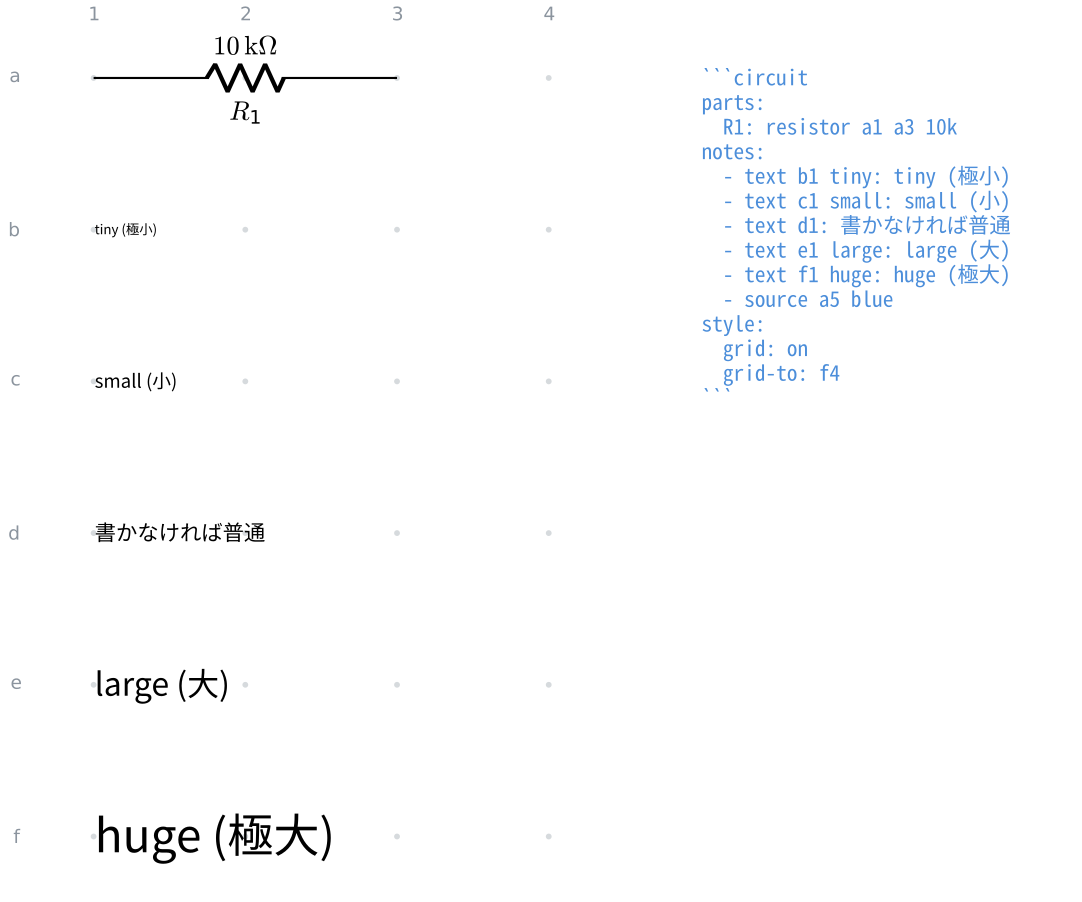
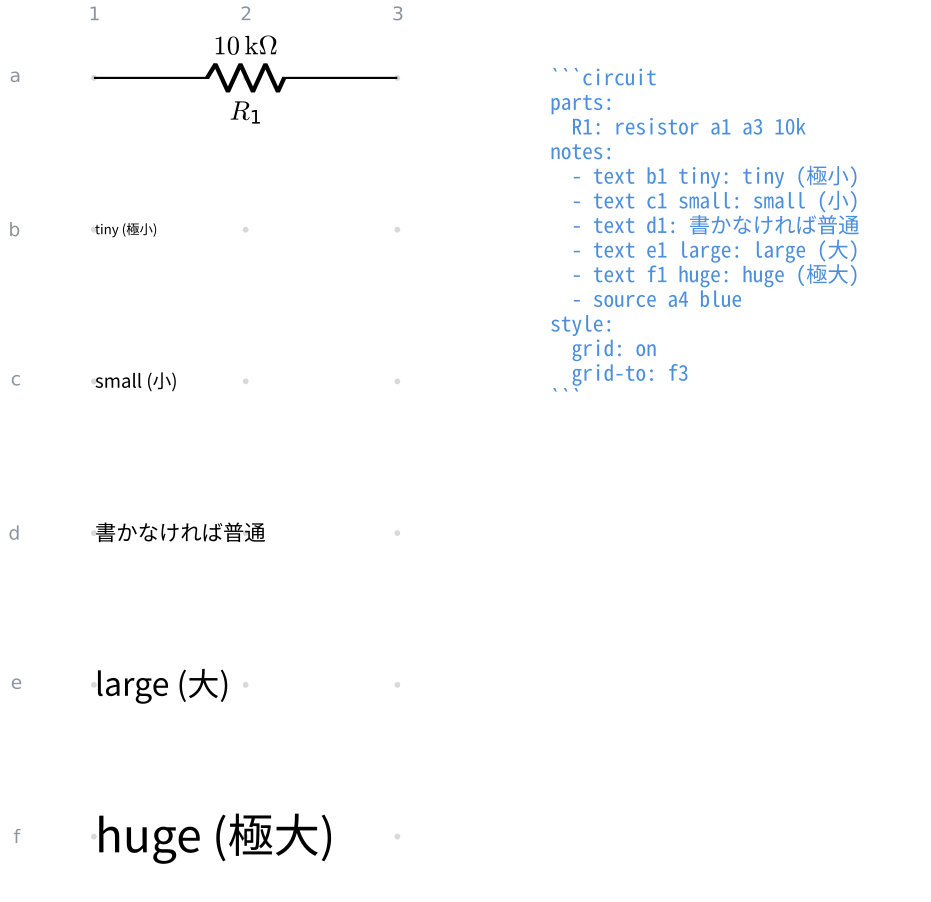
docs: 注釈の例の書き出しを回路の隣へ寄せ、説明の字を大きくする
指し棒と枠の例 (12-notes-6):

- 書き出しを a9 → **a7** に寄せ、large にした
- 枠の説明「box a1 c3 blue」も large に
- あわせて **grid-to を c8 → c6** に詰めた。書き出しを a7 に寄せると
  グリッドの 7・8 列目が字の裏に出て、点が字に混ざる。グリッドは
  指し棒の起点 (c6) まであれば足りるので、そこで止める

字の見た目の例 (12-notes-4 / 12-notes-5):

- **grid-to の列だけが回路より右へ伸びていた**ぶん、書き出しが押し出されていた。
  回路の右端に合わせて詰め (f4 → f3、i6 → i5)、書き出しも 1 列寄せた
  (a5 → a4、a7 → a6)。行のほう (f / i) は字を並べるのに要るのでそのまま

「arrow c6 R1」の赤い字は normal のままにした。large にすると 6 列目から
7 列目まで伸びて、a7 に置いた書き出しと噛む。

🤖 Generated with [Claude Code](https://claude.com/claude-code)

diff --git a/examples/out/12-notes-6.tex b/examples/out/12-notes-6.tex
@@ -9,15 +9,13 @@
 \begin{circuitikz}[american, line width=0.8pt]
 \ctikzset{bipoles/length=1.2cm}
 \ctikzset{grounds/scale=1.36}
-\foreach \x in {0,2,4,6,8,10,12,14} {\foreach \y in {0,-2,-4} {\fill[gray, opacity=0.35] (\x,\y) circle (1.1pt);}}
+\foreach \x in {0,2,4,6,8,10} {\foreach \y in {0,-2,-4} {\fill[gray, opacity=0.35] (\x,\y) circle (1.1pt);}}
 \node[gray, font=\scriptsize] at (0,0.84) {1};
 \node[gray, font=\scriptsize] at (2,0.84) {2};
 \node[gray, font=\scriptsize] at (4,0.84) {3};
 \node[gray, font=\scriptsize] at (6,0.84) {4};
 \node[gray, font=\scriptsize] at (8,0.84) {5};
 \node[gray, font=\scriptsize] at (10,0.84) {6};
-\node[gray, font=\scriptsize] at (12,0.84) {7};
-\node[gray, font=\scriptsize] at (14,0.84) {8};
 \node[gray, font=\scriptsize, anchor=east] at (-0.84,0) {a};
 \node[gray, font=\scriptsize, anchor=east] at (-0.84,-2) {b};
 \node[gray, font=\scriptsize, anchor=east] at (-0.84,-4) {c};
@@ -33,30 +31,30 @@
 \draw (a3) -- (a4); % line 8
 \node[circ] at (a3) {};
 \draw[circuitnoteblue, dashed, rounded corners=3pt] (-0.7,-4.7) rectangle (4.7,0.7); % line 10
-\path (0.815,-6.395) rectangle (3.185,-5.605); % line 11
-\node[anchor=west, inner sep=0, circuitnotemark, font=\footnotesize] at (2,-6) {X}; % line 11
+\path (0.222,-6.593) rectangle (3.778,-5.407); % line 11
+\node[anchor=west, inner sep=0, circuitnotemark, font=\large] at (2,-6) {X}; % line 11
 \draw[circuitnotered, -{Stealth[length=2.2mm]}] (10,-4) -- (2.805,-0.402); % line 12
 \path (10,-4.395) rectangle (11.863,-3.605); % line 13
 \node[anchor=west, inner sep=0, circuitnotemark, font=\footnotesize] at (10,-4) {X}; % line 13
-\path (16,-6.237) rectangle (22.824,0.395); % line 14
-\node[anchor=west, inner sep=0, circuitnotemark, font=\footnotesize] at (16,0) {X}; % line 14
-\node[anchor=west, inner sep=0, circuitnotemark, font=\footnotesize] at (16,-0.325) {X}; % line 14
-\node[anchor=west, inner sep=0, circuitnotemark, font=\footnotesize] at (16,-0.649) {X}; % line 14
-\node[anchor=west, inner sep=0, circuitnotemark, font=\footnotesize] at (16,-0.974) {X}; % line 14
-\node[anchor=west, inner sep=0, circuitnotemark, font=\footnotesize] at (16,-1.298) {X}; % line 14
-\node[anchor=west, inner sep=0, circuitnotemark, font=\footnotesize] at (16,-1.623) {X}; % line 14
-\node[anchor=west, inner sep=0, circuitnotemark, font=\footnotesize] at (16,-1.947) {X}; % line 14
-\node[anchor=west, inner sep=0, circuitnotemark, font=\footnotesize] at (16,-2.272) {X}; % line 14
-\node[anchor=west, inner sep=0, circuitnotemark, font=\footnotesize] at (16,-2.596) {X}; % line 14
-\node[anchor=west, inner sep=0, circuitnotemark, font=\footnotesize] at (16,-2.921) {X}; % line 14
-\node[anchor=west, inner sep=0, circuitnotemark, font=\footnotesize] at (16,-3.246) {X}; % line 14
-\node[anchor=west, inner sep=0, circuitnotemark, font=\footnotesize] at (16,-3.57) {X}; % line 14
-\node[anchor=west, inner sep=0, circuitnotemark, font=\footnotesize] at (16,-3.895) {X}; % line 14
-\node[anchor=west, inner sep=0, circuitnotemark, font=\footnotesize] at (16,-4.219) {X}; % line 14
-\node[anchor=west, inner sep=0, circuitnotemark, font=\footnotesize] at (16,-4.544) {X}; % line 14
-\node[anchor=west, inner sep=0, circuitnotemark, font=\footnotesize] at (16,-4.868) {X}; % line 14
-\node[anchor=west, inner sep=0, circuitnotemark, font=\footnotesize] at (16,-5.193) {X}; % line 14
-\node[anchor=west, inner sep=0, circuitnotemark, font=\footnotesize] at (16,-5.517) {X}; % line 14
-\node[anchor=west, inner sep=0, circuitnotemark, font=\footnotesize] at (16,-5.842) {X}; % line 14
+\path (12,-9.356) rectangle (23.811,0.593); % line 14
+\node[anchor=west, inner sep=0, circuitnotemark, font=\large] at (12,0) {X}; % line 14
+\node[anchor=west, inner sep=0, circuitnotemark, font=\large] at (12,-0.487) {X}; % line 14
+\node[anchor=west, inner sep=0, circuitnotemark, font=\large] at (12,-0.974) {X}; % line 14
+\node[anchor=west, inner sep=0, circuitnotemark, font=\large] at (12,-1.46) {X}; % line 14
+\node[anchor=west, inner sep=0, circuitnotemark, font=\large] at (12,-1.947) {X}; % line 14
+\node[anchor=west, inner sep=0, circuitnotemark, font=\large] at (12,-2.434) {X}; % line 14
+\node[anchor=west, inner sep=0, circuitnotemark, font=\large] at (12,-2.921) {X}; % line 14
+\node[anchor=west, inner sep=0, circuitnotemark, font=\large] at (12,-3.408) {X}; % line 14
+\node[anchor=west, inner sep=0, circuitnotemark, font=\large] at (12,-3.895) {X}; % line 14
+\node[anchor=west, inner sep=0, circuitnotemark, font=\large] at (12,-4.381) {X}; % line 14
+\node[anchor=west, inner sep=0, circuitnotemark, font=\large] at (12,-4.868) {X}; % line 14
+\node[anchor=west, inner sep=0, circuitnotemark, font=\large] at (12,-5.355) {X}; % line 14
+\node[anchor=west, inner sep=0, circuitnotemark, font=\large] at (12,-5.842) {X}; % line 14
+\node[anchor=west, inner sep=0, circuitnotemark, font=\large] at (12,-6.329) {X}; % line 14
+\node[anchor=west, inner sep=0, circuitnotemark, font=\large] at (12,-6.816) {X}; % line 14
+\node[anchor=west, inner sep=0, circuitnotemark, font=\large] at (12,-7.302) {X}; % line 14
+\node[anchor=west, inner sep=0, circuitnotemark, font=\large] at (12,-7.789) {X}; % line 14
+\node[anchor=west, inner sep=0, circuitnotemark, font=\large] at (12,-8.276) {X}; % line 14
+\node[anchor=west, inner sep=0, circuitnotemark, font=\large] at (12,-8.763) {X}; % line 14
 \end{circuitikz}
 \end{document}

diff --git a/examples/out/12-notes-5.tex b/examples/out/12-notes-5.tex
@@ -6,13 +6,12 @@
 \begin{document}
 \begin{circuitikz}[american, line width=0.8pt]
 \ctikzset{bipoles/length=1.2cm}
-\foreach \x in {0,2,4,6,8,10} {\foreach \y in {0,-2,-4,-6,-8,-10,-12,-14,-16} {\fill[gray, opacity=0.35] (\x,\y) circle (1.1pt);}}
+\foreach \x in {0,2,4,6,8} {\foreach \y in {0,-2,-4,-6,-8,-10,-12,-14,-16} {\fill[gray, opacity=0.35] (\x,\y) circle (1.1pt);}}
 \node[gray, font=\scriptsize] at (0,0.84) {1};
 \node[gray, font=\scriptsize] at (2,0.84) {2};
 \node[gray, font=\scriptsize] at (4,0.84) {3};
 \node[gray, font=\scriptsize] at (6,0.84) {4};
 \node[gray, font=\scriptsize] at (8,0.84) {5};
-\node[gray, font=\scriptsize] at (10,0.84) {6};
 \node[gray, font=\scriptsize, anchor=east] at (-0.84,0) {a};
 \node[gray, font=\scriptsize, anchor=east] at (-0.84,-2) {b};
 \node[gray, font=\scriptsize, anchor=east] at (-0.84,-4) {c};
@@ -36,22 +35,22 @@
 \node[anchor=west, inner sep=0, circuitnotemark, font=\footnotesize] at (4,-12) {X}; % line 9
 \path (4,-16.395) rectangle (6.625,-15.605); % line 10
 \node[anchor=west, inner sep=0, circuitnotemark, font=\footnotesize\bfseries] at (4,-16) {X}; % line 10
-\path (12,-5.263) rectangle (18.852,0.395); % line 11
-\node[anchor=west, inner sep=0, circuitnotemark, font=\footnotesize] at (12,0) {X}; % line 11
-\node[anchor=west, inner sep=0, circuitnotemark, font=\footnotesize] at (12,-0.325) {X}; % line 11
-\node[anchor=west, inner sep=0, circuitnotemark, font=\footnotesize] at (12,-0.649) {X}; % line 11
-\node[anchor=west, inner sep=0, circuitnotemark, font=\footnotesize] at (12,-0.974) {X}; % line 11
-\node[anchor=west, inner sep=0, circuitnotemark, font=\footnotesize] at (12,-1.298) {X}; % line 11
-\node[anchor=west, inner sep=0, circuitnotemark, font=\footnotesize] at (12,-1.623) {X}; % line 11
-\node[anchor=west, inner sep=0, circuitnotemark, font=\footnotesize] at (12,-1.947) {X}; % line 11
-\node[anchor=west, inner sep=0, circuitnotemark, font=\footnotesize] at (12,-2.272) {X}; % line 11
-\node[anchor=west, inner sep=0, circuitnotemark, font=\footnotesize] at (12,-2.596) {X}; % line 11
-\node[anchor=west, inner sep=0, circuitnotemark, font=\footnotesize] at (12,-2.921) {X}; % line 11
-\node[anchor=west, inner sep=0, circuitnotemark, font=\footnotesize] at (12,-3.246) {X}; % line 11
-\node[anchor=west, inner sep=0, circuitnotemark, font=\footnotesize] at (12,-3.57) {X}; % line 11
-\node[anchor=west, inner sep=0, circuitnotemark, font=\footnotesize] at (12,-3.895) {X}; % line 11
-\node[anchor=west, inner sep=0, circuitnotemark, font=\footnotesize] at (12,-4.219) {X}; % line 11
-\node[anchor=west, inner sep=0, circuitnotemark, font=\footnotesize] at (12,-4.544) {X}; % line 11
-\node[anchor=west, inner sep=0, circuitnotemark, font=\footnotesize] at (12,-4.868) {X}; % line 11
+\path (10,-5.263) rectangle (16.852,0.395); % line 11
+\node[anchor=west, inner sep=0, circuitnotemark, font=\footnotesize] at (10,0) {X}; % line 11
+\node[anchor=west, inner sep=0, circuitnotemark, font=\footnotesize] at (10,-0.325) {X}; % line 11
+\node[anchor=west, inner sep=0, circuitnotemark, font=\footnotesize] at (10,-0.649) {X}; % line 11
+\node[anchor=west, inner sep=0, circuitnotemark, font=\footnotesize] at (10,-0.974) {X}; % line 11
+\node[anchor=west, inner sep=0, circuitnotemark, font=\footnotesize] at (10,-1.298) {X}; % line 11
+\node[anchor=west, inner sep=0, circuitnotemark, font=\footnotesize] at (10,-1.623) {X}; % line 11
+\node[anchor=west, inner sep=0, circuitnotemark, font=\footnotesize] at (10,-1.947) {X}; % line 11
+\node[anchor=west, inner sep=0, circuitnotemark, font=\footnotesize] at (10,-2.272) {X}; % line 11
+\node[anchor=west, inner sep=0, circuitnotemark, font=\footnotesize] at (10,-2.596) {X}; % line 11
+\node[anchor=west, inner sep=0, circuitnotemark, font=\footnotesize] at (10,-2.921) {X}; % line 11
+\node[anchor=west, inner sep=0, circuitnotemark, font=\footnotesize] at (10,-3.246) {X}; % line 11
+\node[anchor=west, inner sep=0, circuitnotemark, font=\footnotesize] at (10,-3.57) {X}; % line 11
+\node[anchor=west, inner sep=0, circuitnotemark, font=\footnotesize] at (10,-3.895) {X}; % line 11
+\node[anchor=west, inner sep=0, circuitnotemark, font=\footnotesize] at (10,-4.219) {X}; % line 11
+\node[anchor=west, inner sep=0, circuitnotemark, font=\footnotesize] at (10,-4.544) {X}; % line 11
+\node[anchor=west, inner sep=0, circuitnotemark, font=\footnotesize] at (10,-4.868) {X}; % line 11
 \end{circuitikz}
 \end{document}

diff --git a/examples/out/12-notes-4.tex b/examples/out/12-notes-4.tex
@@ -5,11 +5,10 @@
 \begin{document}
 \begin{circuitikz}[american, line width=0.8pt]
 \ctikzset{bipoles/length=1.2cm}
-\foreach \x in {0,2,4,6} {\foreach \y in {0,-2,-4,-6,-8,-10} {\fill[gray, opacity=0.35] (\x,\y) circle (1.1pt);}}
+\foreach \x in {0,2,4} {\foreach \y in {0,-2,-4,-6,-8,-10} {\fill[gray, opacity=0.35] (\x,\y) circle (1.1pt);}}
 \node[gray, font=\scriptsize] at (0,0.84) {1};
 \node[gray, font=\scriptsize] at (2,0.84) {2};
 \node[gray, font=\scriptsize] at (4,0.84) {3};
-\node[gray, font=\scriptsize] at (6,0.84) {4};
 \node[gray, font=\scriptsize, anchor=east] at (-0.84,0) {a};
 \node[gray, font=\scriptsize, anchor=east] at (-0.84,-2) {b};
 \node[gray, font=\scriptsize, anchor=east] at (-0.84,-4) {c};
@@ -29,20 +28,20 @@
 \node[anchor=west, inner sep=0, circuitnotemark, font=\large] at (0,-8) {X}; % line 7
 \path (0,-10.853) rectangle (3.84,-9.147); % line 8
 \node[anchor=west, inner sep=0, circuitnotemark, font=\LARGE] at (0,-10) {X}; % line 8
-\path (8,-4.614) rectangle (13.021,0.395); % line 9
-\node[anchor=west, inner sep=0, circuitnotemark, font=\footnotesize] at (8,0) {X}; % line 9
-\node[anchor=west, inner sep=0, circuitnotemark, font=\footnotesize] at (8,-0.325) {X}; % line 9
-\node[anchor=west, inner sep=0, circuitnotemark, font=\footnotesize] at (8,-0.649) {X}; % line 9
-\node[anchor=west, inner sep=0, circuitnotemark, font=\footnotesize] at (8,-0.974) {X}; % line 9
-\node[anchor=west, inner sep=0, circuitnotemark, font=\footnotesize] at (8,-1.298) {X}; % line 9
-\node[anchor=west, inner sep=0, circuitnotemark, font=\footnotesize] at (8,-1.623) {X}; % line 9
-\node[anchor=west, inner sep=0, circuitnotemark, font=\footnotesize] at (8,-1.947) {X}; % line 9
-\node[anchor=west, inner sep=0, circuitnotemark, font=\footnotesize] at (8,-2.272) {X}; % line 9
-\node[anchor=west, inner sep=0, circuitnotemark, font=\footnotesize] at (8,-2.596) {X}; % line 9
-\node[anchor=west, inner sep=0, circuitnotemark, font=\footnotesize] at (8,-2.921) {X}; % line 9
-\node[anchor=west, inner sep=0, circuitnotemark, font=\footnotesize] at (8,-3.246) {X}; % line 9
-\node[anchor=west, inner sep=0, circuitnotemark, font=\footnotesize] at (8,-3.57) {X}; % line 9
-\node[anchor=west, inner sep=0, circuitnotemark, font=\footnotesize] at (8,-3.895) {X}; % line 9
-\node[anchor=west, inner sep=0, circuitnotemark, font=\footnotesize] at (8,-4.219) {X}; % line 9
+\path (6,-4.614) rectangle (11.021,0.395); % line 9
+\node[anchor=west, inner sep=0, circuitnotemark, font=\footnotesize] at (6,0) {X}; % line 9
+\node[anchor=west, inner sep=0, circuitnotemark, font=\footnotesize] at (6,-0.325) {X}; % line 9
+\node[anchor=west, inner sep=0, circuitnotemark, font=\footnotesize] at (6,-0.649) {X}; % line 9
+\node[anchor=west, inner sep=0, circuitnotemark, font=\footnotesize] at (6,-0.974) {X}; % line 9
+\node[anchor=west, inner sep=0, circuitnotemark, font=\footnotesize] at (6,-1.298) {X}; % line 9
+\node[anchor=west, inner sep=0, circuitnotemark, font=\footnotesize] at (6,-1.623) {X}; % line 9
+\node[anchor=west, inner sep=0, circuitnotemark, font=\footnotesize] at (6,-1.947) {X}; % line 9
+\node[anchor=west, inner sep=0, circuitnotemark, font=\footnotesize] at (6,-2.272) {X}; % line 9
+\node[anchor=west, inner sep=0, circuitnotemark, font=\footnotesize] at (6,-2.596) {X}; % line 9
+\node[anchor=west, inner sep=0, circuitnotemark, font=\footnotesize] at (6,-2.921) {X}; % line 9
+\node[anchor=west, inner sep=0, circuitnotemark, font=\footnotesize] at (6,-3.246) {X}; % line 9
+\node[anchor=west, inner sep=0, circuitnotemark, font=\footnotesize] at (6,-3.57) {X}; % line 9
+\node[anchor=west, inner sep=0, circuitnotemark, font=\footnotesize] at (6,-3.895) {X}; % line 9
+\node[anchor=west, inner sep=0, circuitnotemark, font=\footnotesize] at (6,-4.219) {X}; % line 9
 \end{circuitikz}
 \end{document}

diff --git a/examples/12-notes.md b/examples/12-notes.md
@@ -98,10 +98,10 @@ notes:
   - text d1: 書かなければ普通
   - text e1 large: large (大)
   - text f1 huge: huge (極大)
-  - source a5 blue
+  - source a4 blue
 style:
   grid: on
-  grid-to: f4
+  grid-to: f3
 ```
 
 pt の直接指定は書けない。色と同じで、**実機に通した指定だけ**を名前で引く
@@ -123,10 +123,10 @@ notes:
   - circle g3
   - text g3 right: right (番地が右端)
   - text i3 bold: bold で太字になる
-  - source a7 blue
+  - source a6 blue
 style:
   grid: on
-  grid-to: i6
+  grid-to: i5
 ```
 
 色・大きさ・寄せ・太字は**どの順に書いてもよい**。
@@ -148,13 +148,13 @@ wires:
   - a3 -- a4
 notes:
   - box a1 c3 blue
-  - text d2 blue center: box a1 c3 blue
+  - text d2 blue large center: box a1 c3 blue
   - arrow c6 R1
   - text c6 red: arrow c6 R1
-  - source a9 blue
+  - source a7 blue large
 style:
   grid: on
-  grid-to: c8
+  grid-to: c6
 ```
 
 部品を指した指し棒は、印 (`circle`) と同じ丸の縁で止まる。
